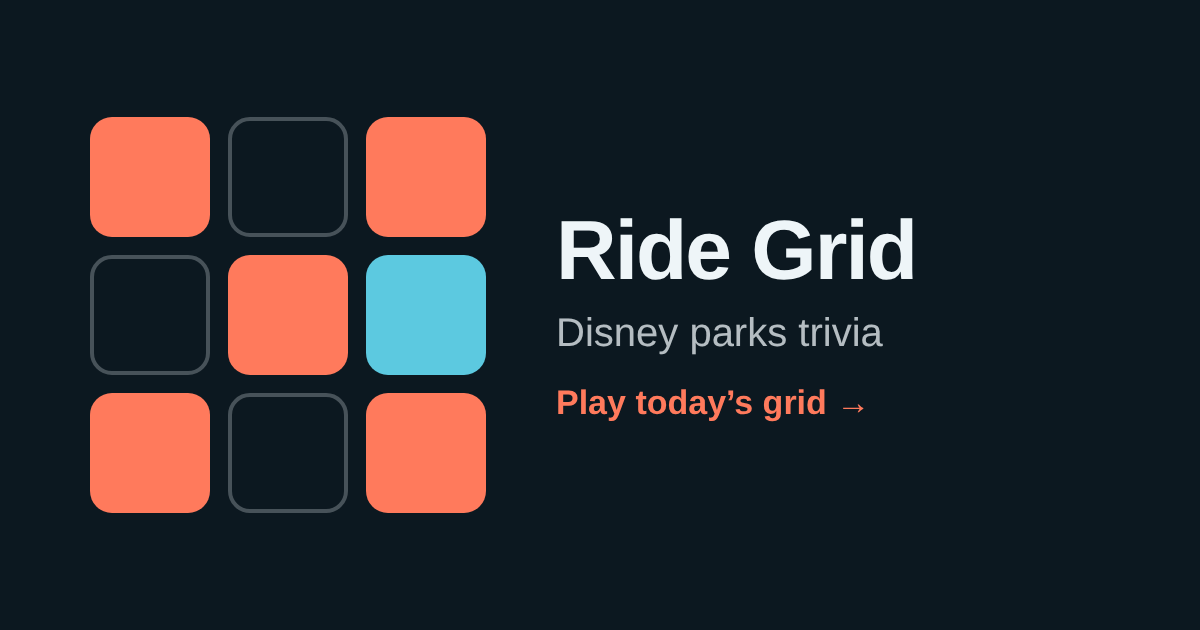
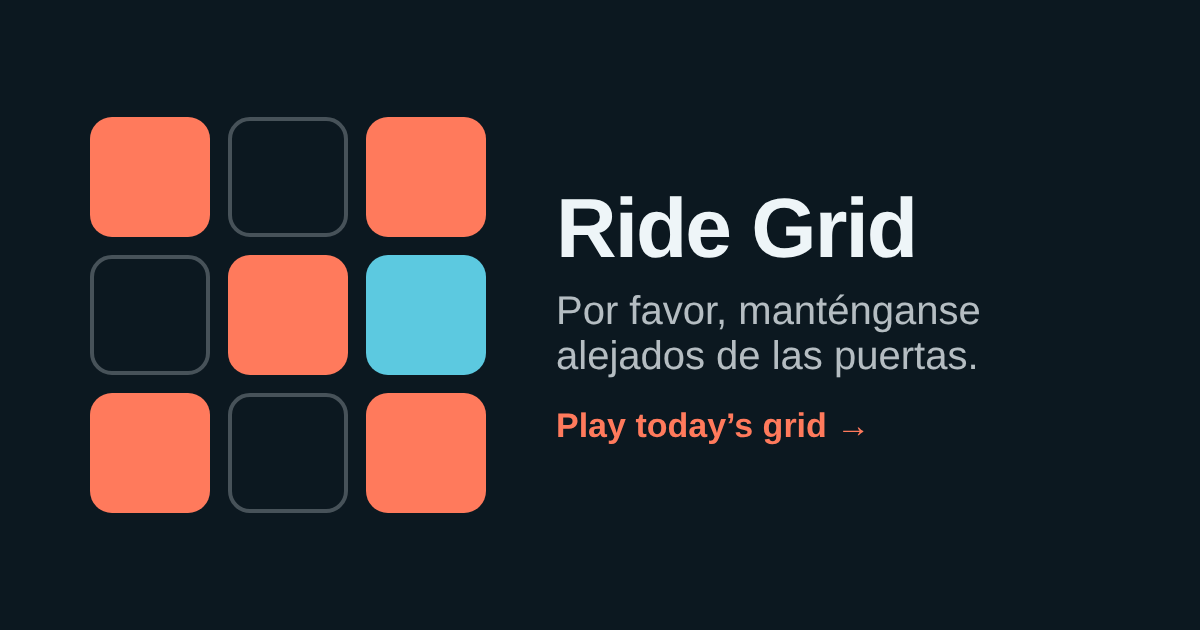
Add the monorail tagline to Ride Grid
"Por favor, manténganse alejados de las puertas." now appears under
the Ride Grid title, on its home-page card and on its preview image.

Claude-Session: https://claude.ai/code/session_017FxQfN4MhQixpUmBSE1xdn

Changed region(s): [[0.4625, 0.3016, 0.8325, 0.6937]]

diff --git a/site/index.html b/site/index.html
@@ -50,7 +50,7 @@ footer { font-size: 12.5px; color: var(--muted); }
   <ul>
     <li><a class="game" href="flannel-grid.html"><div><b>Flannel Grid</b><span>'90s alternative and grunge</span></div><i aria-hidden="true">›</i></a></li>
     <li><a class="game" href="first-wave-grid.html"><div><b>First Wave Grid</b><span>New wave, synth-pop and post-punk</span></div><i aria-hidden="true">›</i></a></li>
-    <li><a class="game" href="ride-grid.html"><div><b>Ride Grid</b><span>Disney parks attractions, around the world</span></div><i aria-hidden="true">›</i></a></li>
+    <li><a class="game" href="ride-grid.html"><div><b>Ride Grid</b><span lang="es">Por favor, manténganse alejados de las puertas.</span></div><i aria-hidden="true">›</i></a></li>
     <li><a class="game" href="hook-grid.html"><div><b>Hook Grid</b><span>2010s pop hits</span></div><i aria-hidden="true">›</i></a></li>
     <li><a class="game" href="swiftie-grid.html"><div><b>Swiftie Grid</b><span>Taylor Swift, album by album</span></div><i aria-hidden="true">›</i></a></li>
     <li><a class="game" href="zeppelin-grid.html"><div><b>Zeppelin Grid</b><span>Led Zeppelin deep cuts</span></div><i aria-hidden="true">›</i></a></li>

diff --git a/build/make_og.js b/build/make_og.js
@@ -6,7 +6,7 @@ const games = [
   ['og-hook-grid.png', 'Hook Grid', '2010s pop hits', '#130e20', '#f2edfb', '#ff4f96', '#6aa0ff'],
   ['og-swiftie-grid.png', 'Swiftie Grid', 'Taylor Swift, album by album', '#0e1024', '#eef0ff', '#b49bff', '#f08fc6'],
   ['og-zeppelin-grid.png', 'Zeppelin Grid', 'Led Zeppelin deep cuts', '#141210', '#f1ebe3', '#e0654f', '#d8b25a'],
-  ['og-ride-grid.png', 'Ride Grid', 'Disney parks trivia', '#0c1820', '#eef5f8', '#ff7a5c', '#5cc9e0'],
+  ['og-ride-grid.png', 'Ride Grid', 'Por favor, manténganse alejados de las puertas.', '#0c1820', '#eef5f8', '#ff7a5c', '#5cc9e0'],
   ['og-index.png', 'Grid Games', 'Daily music trivia', '#141312', '#f1eee9', '#ef6a5c', '#6fc39a'],
 ];
 (async () => {

diff --git a/games/ride-grid.html b/games/ride-grid.html
@@ -114,6 +114,7 @@ h1 span { color: var(--accent); }
   <header>
     <div>
       <h1>Ride <span>Grid</span></h1>
+      <p class="tagline" lang="es" style="margin:6px 0 0;font-style:italic;font-size:13.5px;color:var(--accent-2)">Por favor, manténganse alejados de las puertas.</p>
       <p class="sub" id="label">Daily grid</p>
     </div>
     <div class="left"><b id="left">9</b><small>Guesses left</small></div>

diff --git a/site/ride-grid.html b/site/ride-grid.html
@@ -151,6 +151,7 @@ h1 span { color: var(--accent); }
   <header>
     <div>
       <h1>Ride <span>Grid</span></h1>
+      <p class="tagline" lang="es" style="margin:6px 0 0;font-style:italic;font-size:13.5px;color:var(--accent-2)">Por favor, manténganse alejados de las puertas.</p>
       <p class="sub" id="label">Daily grid</p>
       <p class="statline" id="statline" aria-live="polite"></p>
     </div>

diff --git a/build/build_ride.py b/build/build_ride.py
@@ -28,7 +28,7 @@ rep('font-family: var(--font-display); font-weight: 800; font-size: clamp(12.5px
 rep('.summary h2 { margin: 0; font-family: var(--font-display); font-weight: 800;', '.summary h2 { margin: 0; font-family: var(--font-display); font-weight: 400;')
 rep('.prompt { font-family: var(--font-display); font-weight: 700;', '.prompt { font-family: var(--font-display); font-weight: 400;')
 rep('.board { display: grid; grid-template-columns: minmax(0, .85fr) repeat(3, minmax(0, 1fr)); gap: 6px; }', '.board { display: grid; grid-template-columns: minmax(0, 1.1fr) repeat(3, minmax(0, 1fr)); gap: 6px; }')
-rep('<h1>Hook <span>Grid</span></h1>', '<h1>Ride <span>Grid</span></h1>')
+rep('<h1>Hook <span>Grid</span></h1>', '<h1>Ride <span>Grid</span></h1>\n      <p class="tagline" lang="es" style="margin:6px 0 0;font-style:italic;font-size:13.5px;color:var(--accent-2)">Por favor, manténganse alejados de las puertas.</p>')
 a = t.index('  <p class="rules">Tap a square'); b = t.index('</div>', a)
 t = t[:a] + """  <p class="rules">Disney parks trivia. Tap a square and name an <b>attraction</b> at the <b>park on the left</b> that fits the <b>fact on top</b>. Rides that exist at several parks count as one answer, so Space Mountain works for any park that has a version of it. You get 9 guesses, and each ride can be used once.</p>
   <p class="rules"><b>Medium</b> uses the six US parks plus Disneyland Paris and Tokyo Disneyland, with the most familiar ride types. <b>Hard</b> adds Disney Adventure World, Tokyo DisneySea, Hong Kong and Shanghai, plus crossovers with every park and finer categories like Omnimover and trackless rides. The list covers about 110 rides operating in 2026; shows, walk-throughs and rides closed for long rebuilds are left out. Ride facts were compiled by hand, so a ride that fits might be missing. This is a fan-made game and isn't affiliated with Disney. Your guesses are saved on this device.</p>

diff --git a/build/make_ride_builder.py b/build/make_ride_builder.py
@@ -24,7 +24,7 @@ sub('"--bg: #131310; --panel: #1e1d19; --ink: #efece4; --muted: #a39e92; --line:
 sub('"--accent: #e8604f; --accent-2: #6fc39a; --accent-ink: #1c0805;"', '"--accent: #ff7a5c; --accent-2: #5cc9e0; --accent-ink: #1d0802;"')
 sub("font-size: clamp(30px, 9vw, 42px); line-height: 1; margin: 0; letter-spacing: -.01em;", "font-size: clamp(36px, 11vw, 50px); line-height: .95; margin: 0; letter-spacing: -.01em;")
 sub("font-size: clamp(11px, 3.2vw, 15px); letter-spacing: -.035em; overflow-wrap: normal; }'", "font-size: clamp(13px, 3.8vw, 17px); letter-spacing: 0; overflow-wrap: normal; }'")
-sub("'<h1>Flannel <span>Grid</span></h1>'", "'<h1>Ride <span>Grid</span></h1>'")
+sub("'<h1>Flannel <span>Grid</span></h1>'", "'<h1>Ride <span>Grid</span></h1>\\n      <p class=\"tagline\" lang=\"es\" style=\"margin:6px 0 0;font-style:italic;font-size:13.5px;color:var(--accent-2)\">Por favor, manténganse alejados de las puertas.</p>'")
 sub("""rep('<p class="sub" id="label">Daily grid</p>""", """rep('<p class="sub" id="label">Daily grid</p>""") if False else None
 a = p.index('t = t[:a] + """  <p class="rules">'); b = p.index('""" + t[b:]', a)
 p = p[:a] + '''t = t[:a] + """  <p class="rules">Disney parks trivia. Tap a square and name an <b>attraction</b> at the <b>park on the left</b> that fits the <b>fact on top</b>. Rides that exist at several parks count as one answer, so Space Mountain works for any park that has a version of it. You get 9 guesses, and each ride can be used once.</p>
